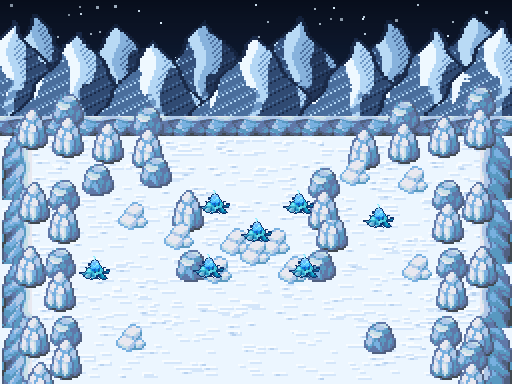
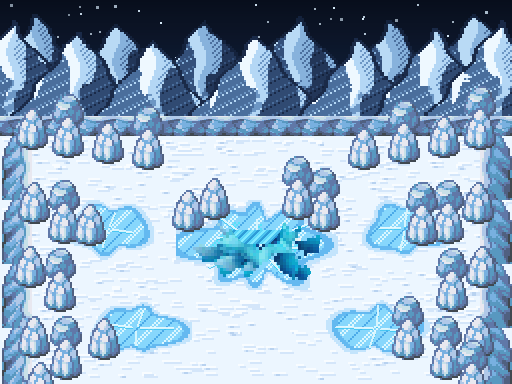
feat(cinematic): [AGY-012] remove mini-egg crystals and rocks, leave pure Anivia ice cradle on glacier patch

diff --git a/CHANGELOG.md b/CHANGELOG.md
@@ -16,6 +16,19 @@ En cas de bug plus tard, ce journal permet d'identifier immédiatement **quel fi
 
 ## 📅 Historique des Ajouts & Modifications
 
+### `[AGY-012]` — 2026-10-12 — Suppression des mini-œufs parasites, rochers et tas de neige + Plaques de glace vive & Glace pure issue de l'Œuf d'Anivia
+- **Auteur** : `Antigravity` (après validation de l'utilisateur)
+- **Catégorie** : Graphismes (`Pictures` / `Tilesets`)
+- **Fichiers modifiés** :
+  - `Graphics/Pictures/Fond_Sanctuaire_Glace.png` (`512×384 px` — Suppression totale des petits cristaux-œufs `32×32`, des rochers ronds et des tas de neige ; ajout de plaques de glace vive fissurée et du socle de glace pure turquoise issu directement de la base de l'Œuf d'Anivia)
+  - `Graphics/Pictures/Autel_Anivia_Vide.png` & `Graphics/Tilesets/SubTileset_2_Sanctuaire_DemiDieux.png` (Mise à jour du nid avec uniquement la glace pure d'Anivia et les grands pics de glace)
+- **Comment tester en jeu** :
+  - Lancer le jeu (**New Game**) : le sommet ne comporte plus aucun petit œuf ni rocher parasite, et lorsque l'Œuf d'Anivia est soulevé, seule sa glace pure turquoise reste incrustée dans la plaque gelée.
+- **Comment désactiver en cas de bug** :
+  - `git revert HEAD` pour revenir à l'état précédent.
+
+---
+
 ### `[AGY-011]` — 2026-10-12 — Tremblement d'écran réel à l'enlèvement de l'Œuf & Repositionnement de l'Œuf au-dessus de la boîte de dialogue (`Y = 166..286`)
 - **Auteur** : `Antigravity`
 - **Catégorie** : Graphismes (`Pictures`) & Script Cinématique (`009_Overworld_Cinematics_LoL.rb`)
